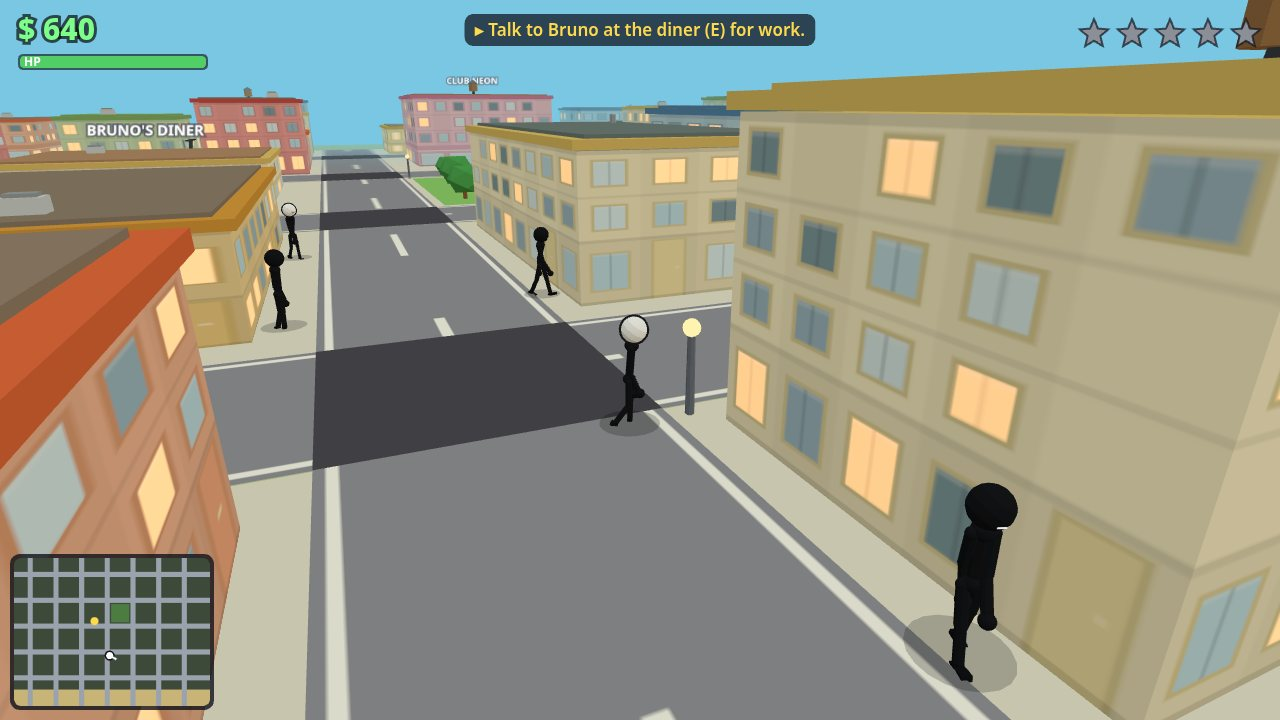
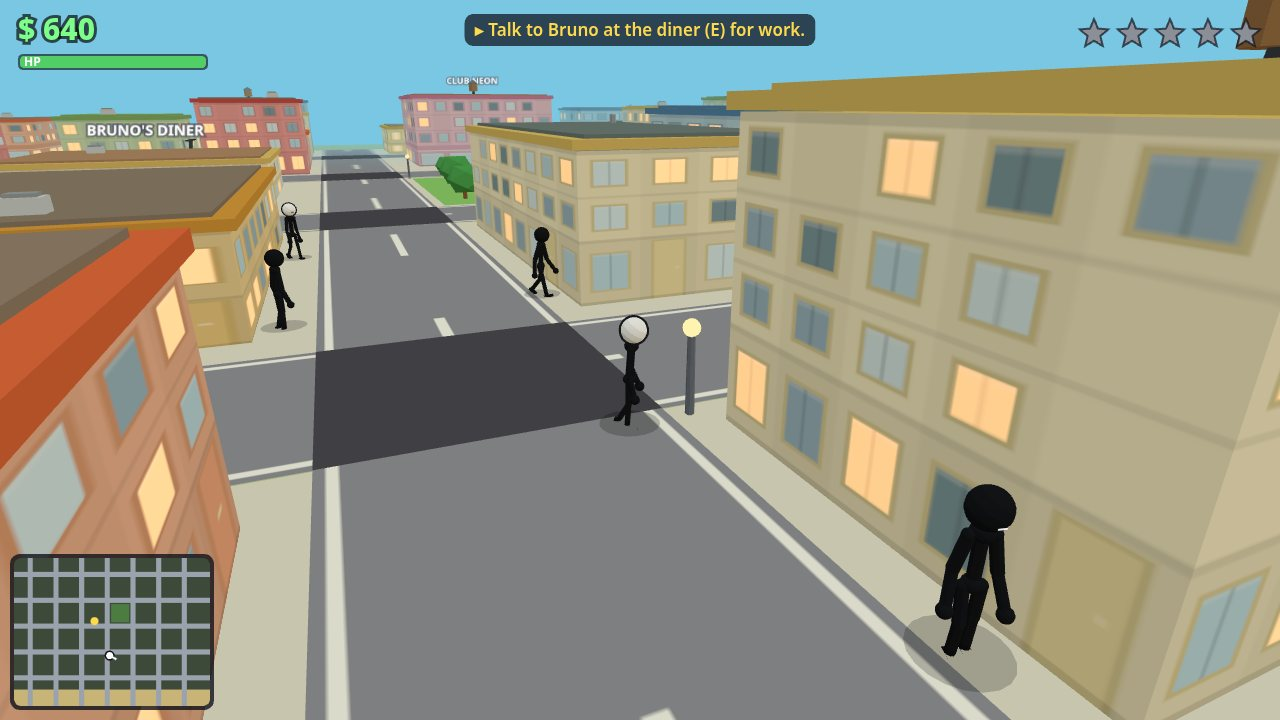
Rig fixes: arms clear of the torso, hip drive in the punch
Arms: the shoulder pivots sat at z +-2.0, inside the chest ball's
+-2.3, with the arm's inner surface at z 0.95 against a +-1.3 torso —
and the rest rotation.x of +-0.1 tilted both arms INTO the body
despite its 'hang slightly out' comment. Pivots move out to +-2.45
and the rest angle becomes a true outward abduction
(rotation.x = -side * (0.17 + down * 0.5)); no radii change, the
figures stay slim. Verified by a clearance sweep (idle / walk /
drive / aim all keep positive daylight on the arm shaft) and
close-up stills.

Punch: it was arm-only, and its spine twist was not mirrored (right
punches twisted backwards). The pelvis now yaws into the punch
(+-0.44 rad drive curve, wound back in anticipation), the weight
shifts onto the punching-side leg with a dip and a forward root
drive, the front knee bends, and the spine twist follows a beat
later (whip), mirrored by side via punchPose/driveAt phase curves.
NPC punches use the same rig and get it too.

Screenshots re-rendered with the improved rig (same fixed cameras,
composition unchanged); dossier hand-in verified.

diff --git a/game/src/stick3d.js b/game/src/stick3d.js
@@ -210,10 +210,12 @@ export function createFigure(opts = {}) {
   // Arms: shoulder pivot -> upper arm -> elbow pivot -> forearm -> hand.
   // Segment lengths are tuned to the reference sheet: a relaxed arm hangs to
   // about mid-thigh (upper 8.2 + forearm/hand 7.9 from the shoulder), not to
-  // the knees as the first, longer rig did.
+  // the knees as the first, longer rig did. The pivots sit at z +-2.45, just
+  // outside the chest ball's +-2.3, and update() adds a slight outward rest
+  // angle, so the hanging shaft clears the torso instead of merging into it.
   function makeArm(side) {
     const shoulder = new THREE.Group();
-    shoulder.position.set(0, 9.8, side * 2.0);
+    shoulder.position.set(0, 9.8, side * 2.45);
     const upper = segment(limbR, 8.2, limbMat, limbR * 1.05);
     shoulder.add(upper);
     const elbow = new THREE.Group();
@@ -226,7 +228,7 @@ export function createFigure(opts = {}) {
     hand.position.y = -7.9;
     fore.add(hand);
     spine.add(shoulder);
-    return { shoulder, elbow, fore, hand };
+    return { shoulder, elbow, fore, hand, side };
   }
   const armL = makeArm(1);
   const armR = makeArm(-1);
@@ -311,6 +313,28 @@ export function createFigure(opts = {}) {
   const easeOut = (t) => 1 - Math.pow(1 - t, 3);
   const easeIn = (t) => t * t * t;
 
+  /** Punch arm curves at phase p (0..1): shoulder shove, elbow bend, spine twist. */
+  const punchPose = (p) => {
+    if (p <= 0 || p >= 1) return { shove: 0, bend: 0, tw: 0 };
+    if (p < 0.3) {
+      const k = easeOut(p / 0.3);
+      return { shove: -0.62 * k, bend: 1.5 * k, tw: -0.38 * k };
+    }
+    if (p < 0.55) {
+      const k = easeIn((p - 0.3) / 0.25);
+      return { shove: -0.62 + 2.3 * k, bend: 1.5 - 1.44 * k, tw: -0.38 + 0.68 * k };
+    }
+    const k = easeOut((p - 0.55) / 0.45);
+    return { shove: 1.68 * (1 - k), bend: 0.06 + 0.3 * k, tw: 0.3 * (1 - k) };
+  };
+  /** Normalised hip-drive curve over the punch: -1 wound back, +1 driven through. */
+  const driveAt = (p) => {
+    if (p <= 0 || p >= 1) return 0;
+    if (p < 0.3) return -easeOut(p / 0.3);
+    if (p < 0.55) return -1 + 2 * easeIn((p - 0.3) / 0.25);
+    return 1 - easeOut((p - 0.55) / 0.45);
+  };
+
   /** Solve every joint from the damped pose values. Call once per frame. */
   function update(dt, time) {
     const c = fig.cur;
@@ -332,6 +356,8 @@ export function createFigure(opts = {}) {
     const bob = Math.abs(Math.sin(ph)) * 1.5 * gait;
     const breathe = Math.sin(time * 1.7 + fig.swaySeed) * 0.22 * (1 - gait);
     pelvis.position.y = HIP_H + bob + breathe - c.crouch * 6.5 - c.drive * 13;
+    pelvis.position.x = 0; // the punch block below may drive these forward/sideways
+    pelvis.position.z = 0;
     pelvis.rotation.x = Math.sin(ph * 2 + fig.swaySeed) * 0.03 * gait; // gentle roll
     pelvis.rotation.y = Math.sin(time * 0.43 + fig.swaySeed) * 0.05 * (1 - gait); // idle weight shift
 
@@ -369,7 +395,13 @@ export function createFigure(opts = {}) {
     shL = shL * (1 - c.down) + 0.5 * c.down;
     shR = shR * (1 - c.down) - 0.4 * c.down;
 
-    // --- Punch: anticipation (wind back + twist), strike (extend + untwist), recovery. ---
+    // --- Punch: anticipation (wind back + twist), strike (extend +
+    // untwist), recovery — driven from the hips, not just the arm. The
+    // pelvis yaws INTO the punch (the punching-side hip drives forward),
+    // the weight shifts onto that leg with a dip and a forward drive, and
+    // the spine twist follows the pelvis a beat later (the whip), so the
+    // shoulder rides the combined rotation forward. `side` mirrors every
+    // term for left and right punches. ---
     if (fig.punchT >= 0) {
       fig.punchT += dt / 0.38;
       const pt = fig.punchT;
@@ -377,33 +409,29 @@ export function createFigure(opts = {}) {
         fig.punchT = -1;
       } else {
         const arm = fig.punchArm === 'R' ? 'R' : 'L';
-        let shove = 0;
-        let bend = 0;
-        let tw = 0;
-        if (pt < 0.3) {
-          const k = easeOut(pt / 0.3);
-          shove = -0.62 * k;
-          bend = 1.5 * k;
-          tw = -0.38 * k;
-        } else if (pt < 0.55) {
-          const k = easeIn((pt - 0.3) / 0.25);
-          shove = -0.62 + 2.3 * k;
-          bend = 1.5 - 1.44 * k;
-          tw = -0.38 + 0.68 * k;
-        } else {
-          const k = easeOut((pt - 0.55) / 0.45);
-          shove = 1.68 * (1 - k);
-          bend = 0.06 + 0.3 * k;
-          tw = 0.3 * (1 - k);
-        }
+        const side = arm === 'L' ? 1 : -1; // z-side of the punching arm
+        const pose = punchPose(pt);
         if (arm === 'R') {
-          shR = shove + shR * 0.15;
-          elR = bend;
+          shR = pose.shove + shR * 0.15;
+          elR = pose.bend;
         } else {
-          shL = shove + shL * 0.15;
-          elL = bend;
+          shL = pose.shove + shL * 0.15;
+          elL = pose.bend;
         }
-        twist += tw;
+        twist += side * punchPose(pt - 0.07).tw; // spine lags the pelvis: whip
+        const hd = driveAt(pt);
+        const strike = Math.max(0, hd);
+        const load = Math.max(0, -hd);
+        pelvis.rotation.y += side * 0.44 * hd;
+        pelvis.position.z += side * 1.0 * hd; // weight onto the punching-side leg
+        pelvis.position.x += 1.5 * strike; // root drives forward through the hit
+        pelvis.position.y -= 1.3 * strike + 0.5 * load; // dip: front knee bends, rear loads
+        spine.rotation.z -= 0.1 * strike; // torso leans into the strike
+        const frontLeg = side > 0 ? legL : legR;
+        const rearLeg = side > 0 ? legR : legL;
+        frontLeg.knee.rotation.z -= 0.34 * strike;
+        frontLeg.hip.rotation.z += 0.12 * strike;
+        rearLeg.hip.rotation.z -= 0.1 * strike;
       }
     }
     spine.rotation.y = twist;
@@ -412,9 +440,13 @@ export function createFigure(opts = {}) {
     armR.shoulder.rotation.z = shR;
     armL.elbow.rotation.z = elL;
     armR.elbow.rotation.z = elR;
-    // Arms hang slightly out from the body, never glued to the torso.
-    armL.shoulder.rotation.x = 0.1 + c.down * 0.5;
-    armR.shoulder.rotation.x = -0.1 - c.down * 0.4;
+    // Arms hang OUT from the body on a slight abduction, so the shaft
+    // clears the torso, chest and pelvis instead of sitting inside their
+    // silhouette. (For a hanging arm, rotation.x of -side tips the tip
+    // away from the midline; the old +-0.1 did the opposite and tilted
+    // both arms INTO the body.) Knocked out, they flop further out.
+    armL.shoulder.rotation.x = -armL.side * (0.17 + c.down * 0.5);
+    armR.shoulder.rotation.x = -armR.side * (0.17 + c.down * 0.5);
 
     // --- Whole-body fall when knocked out. ---
     tilt.rotation.x = -1.5 * easeOut(Math.min(1, c.down));
